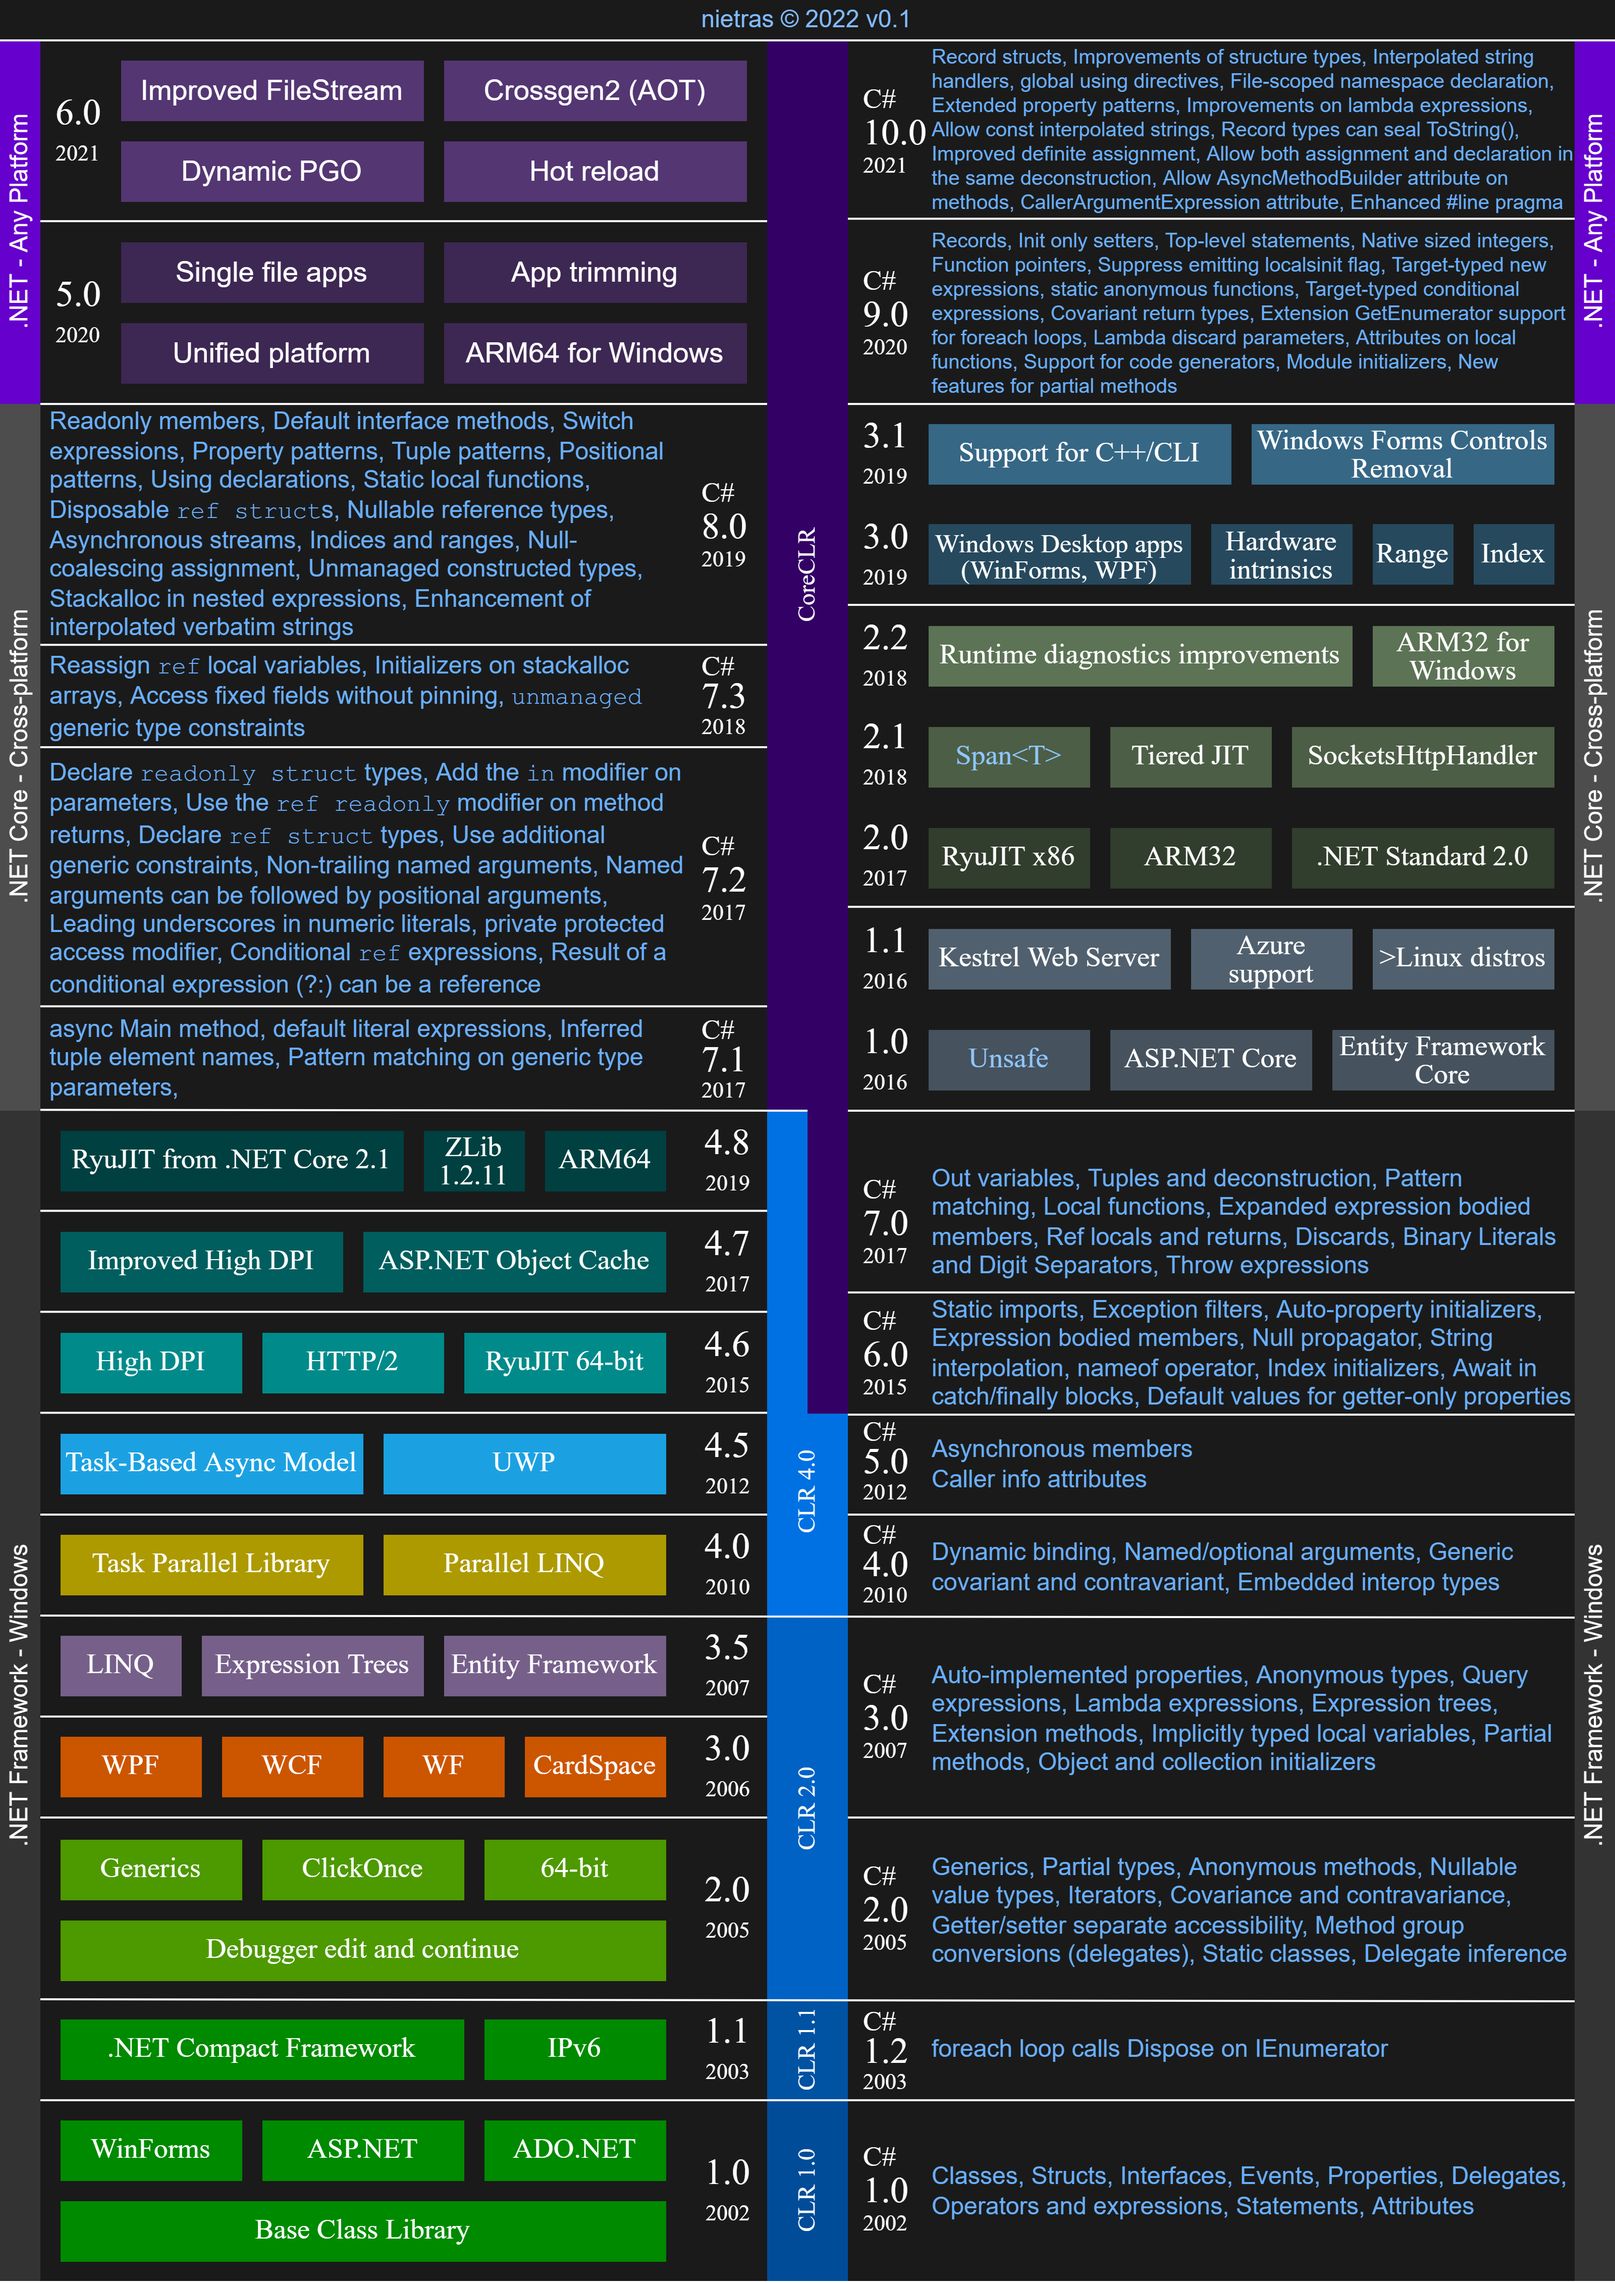
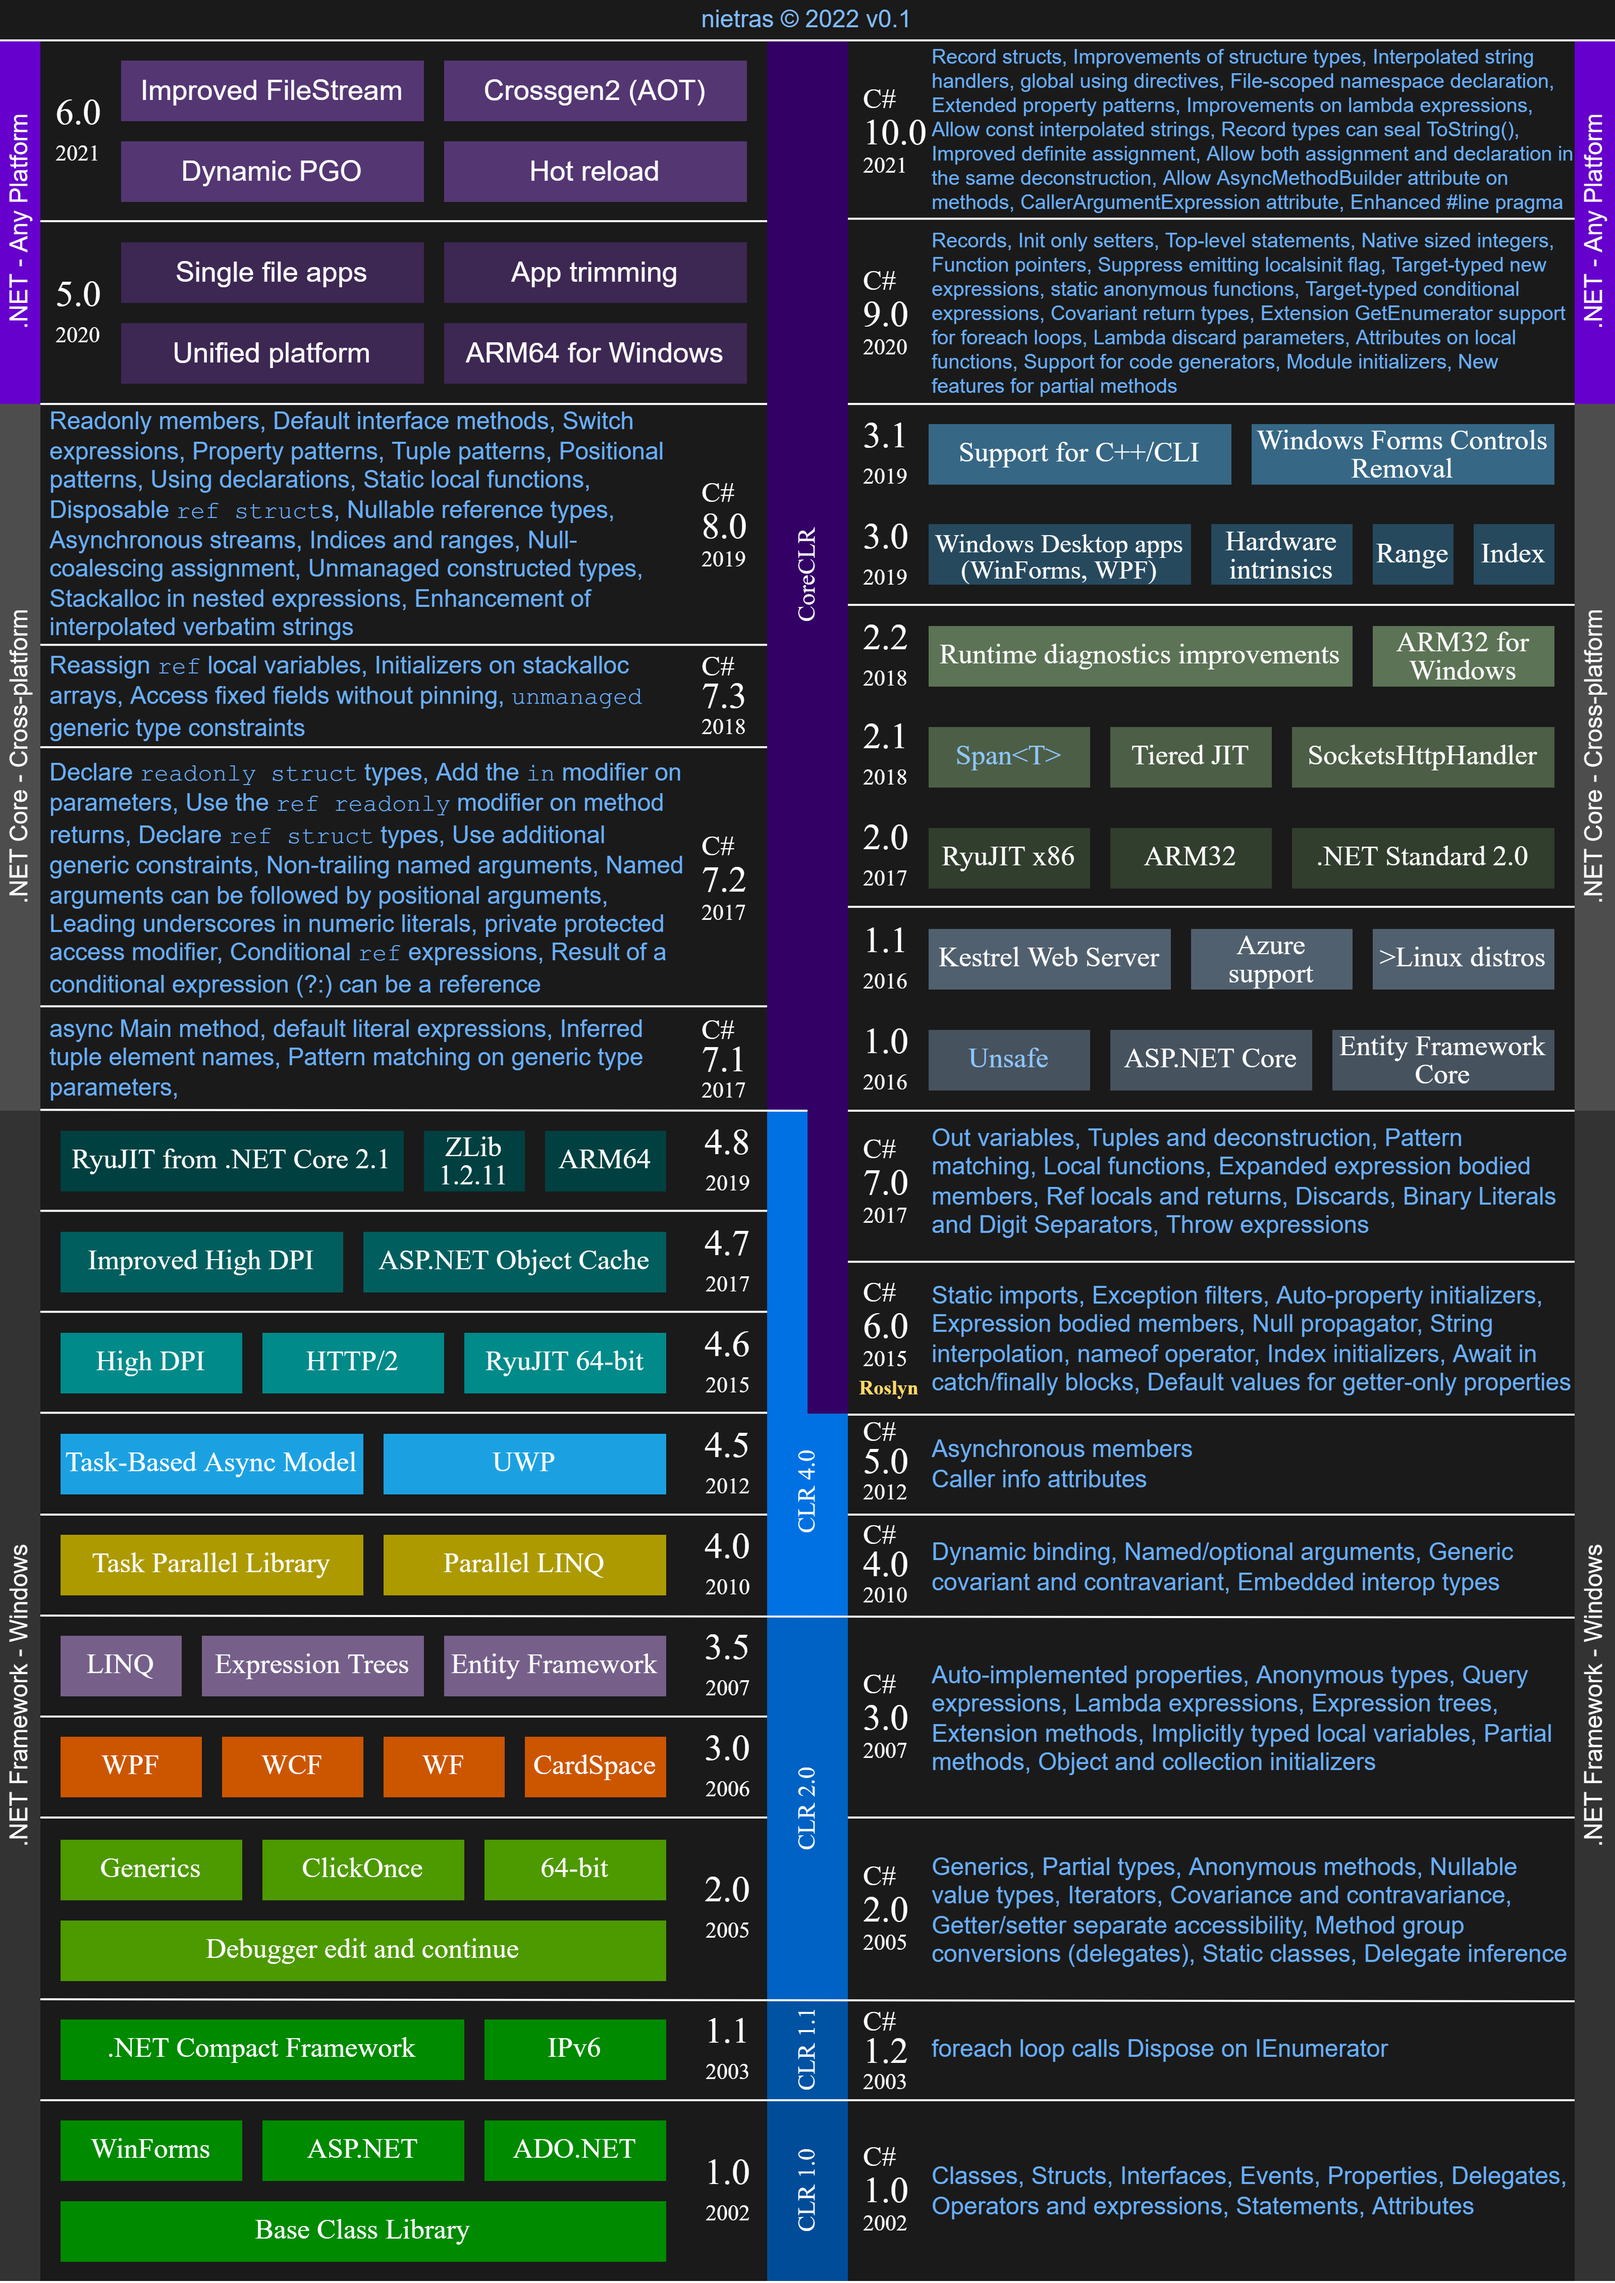
add roslyn

Changed region(s): [[0.5312, 0.4989, 0.9688, 0.6236]]

diff --git a/_posts/2022-02-12-dotnet-versions.md b/_posts/2022-02-12-dotnet-versions.md
@@ -43,3 +43,5 @@ title: .NET and C# Versions - 20th Anniversary ♥
 * [Announcing .NET 6 — The Fastest .NET Yet](https://devblogs.microsoft.com/dotnet/announcing-net-6/)
 * [The history of C#](https://docs.microsoft.com/en-us/dotnet/csharp/whats-new/csharp-version-history)
 * [C Sharp (programming language)](https://en.wikipedia.org/wiki/C_Sharp_(programming_language))
+* [Roslyn (compiler)](https://en.wikipedia.org/wiki/Roslyn_(compiler))
+* [The Rough History of The So Many C# Compilers](https://blog.lextudio.com/the-rough-history-of-the-so-many-c-compilers-f3a85500707c)
